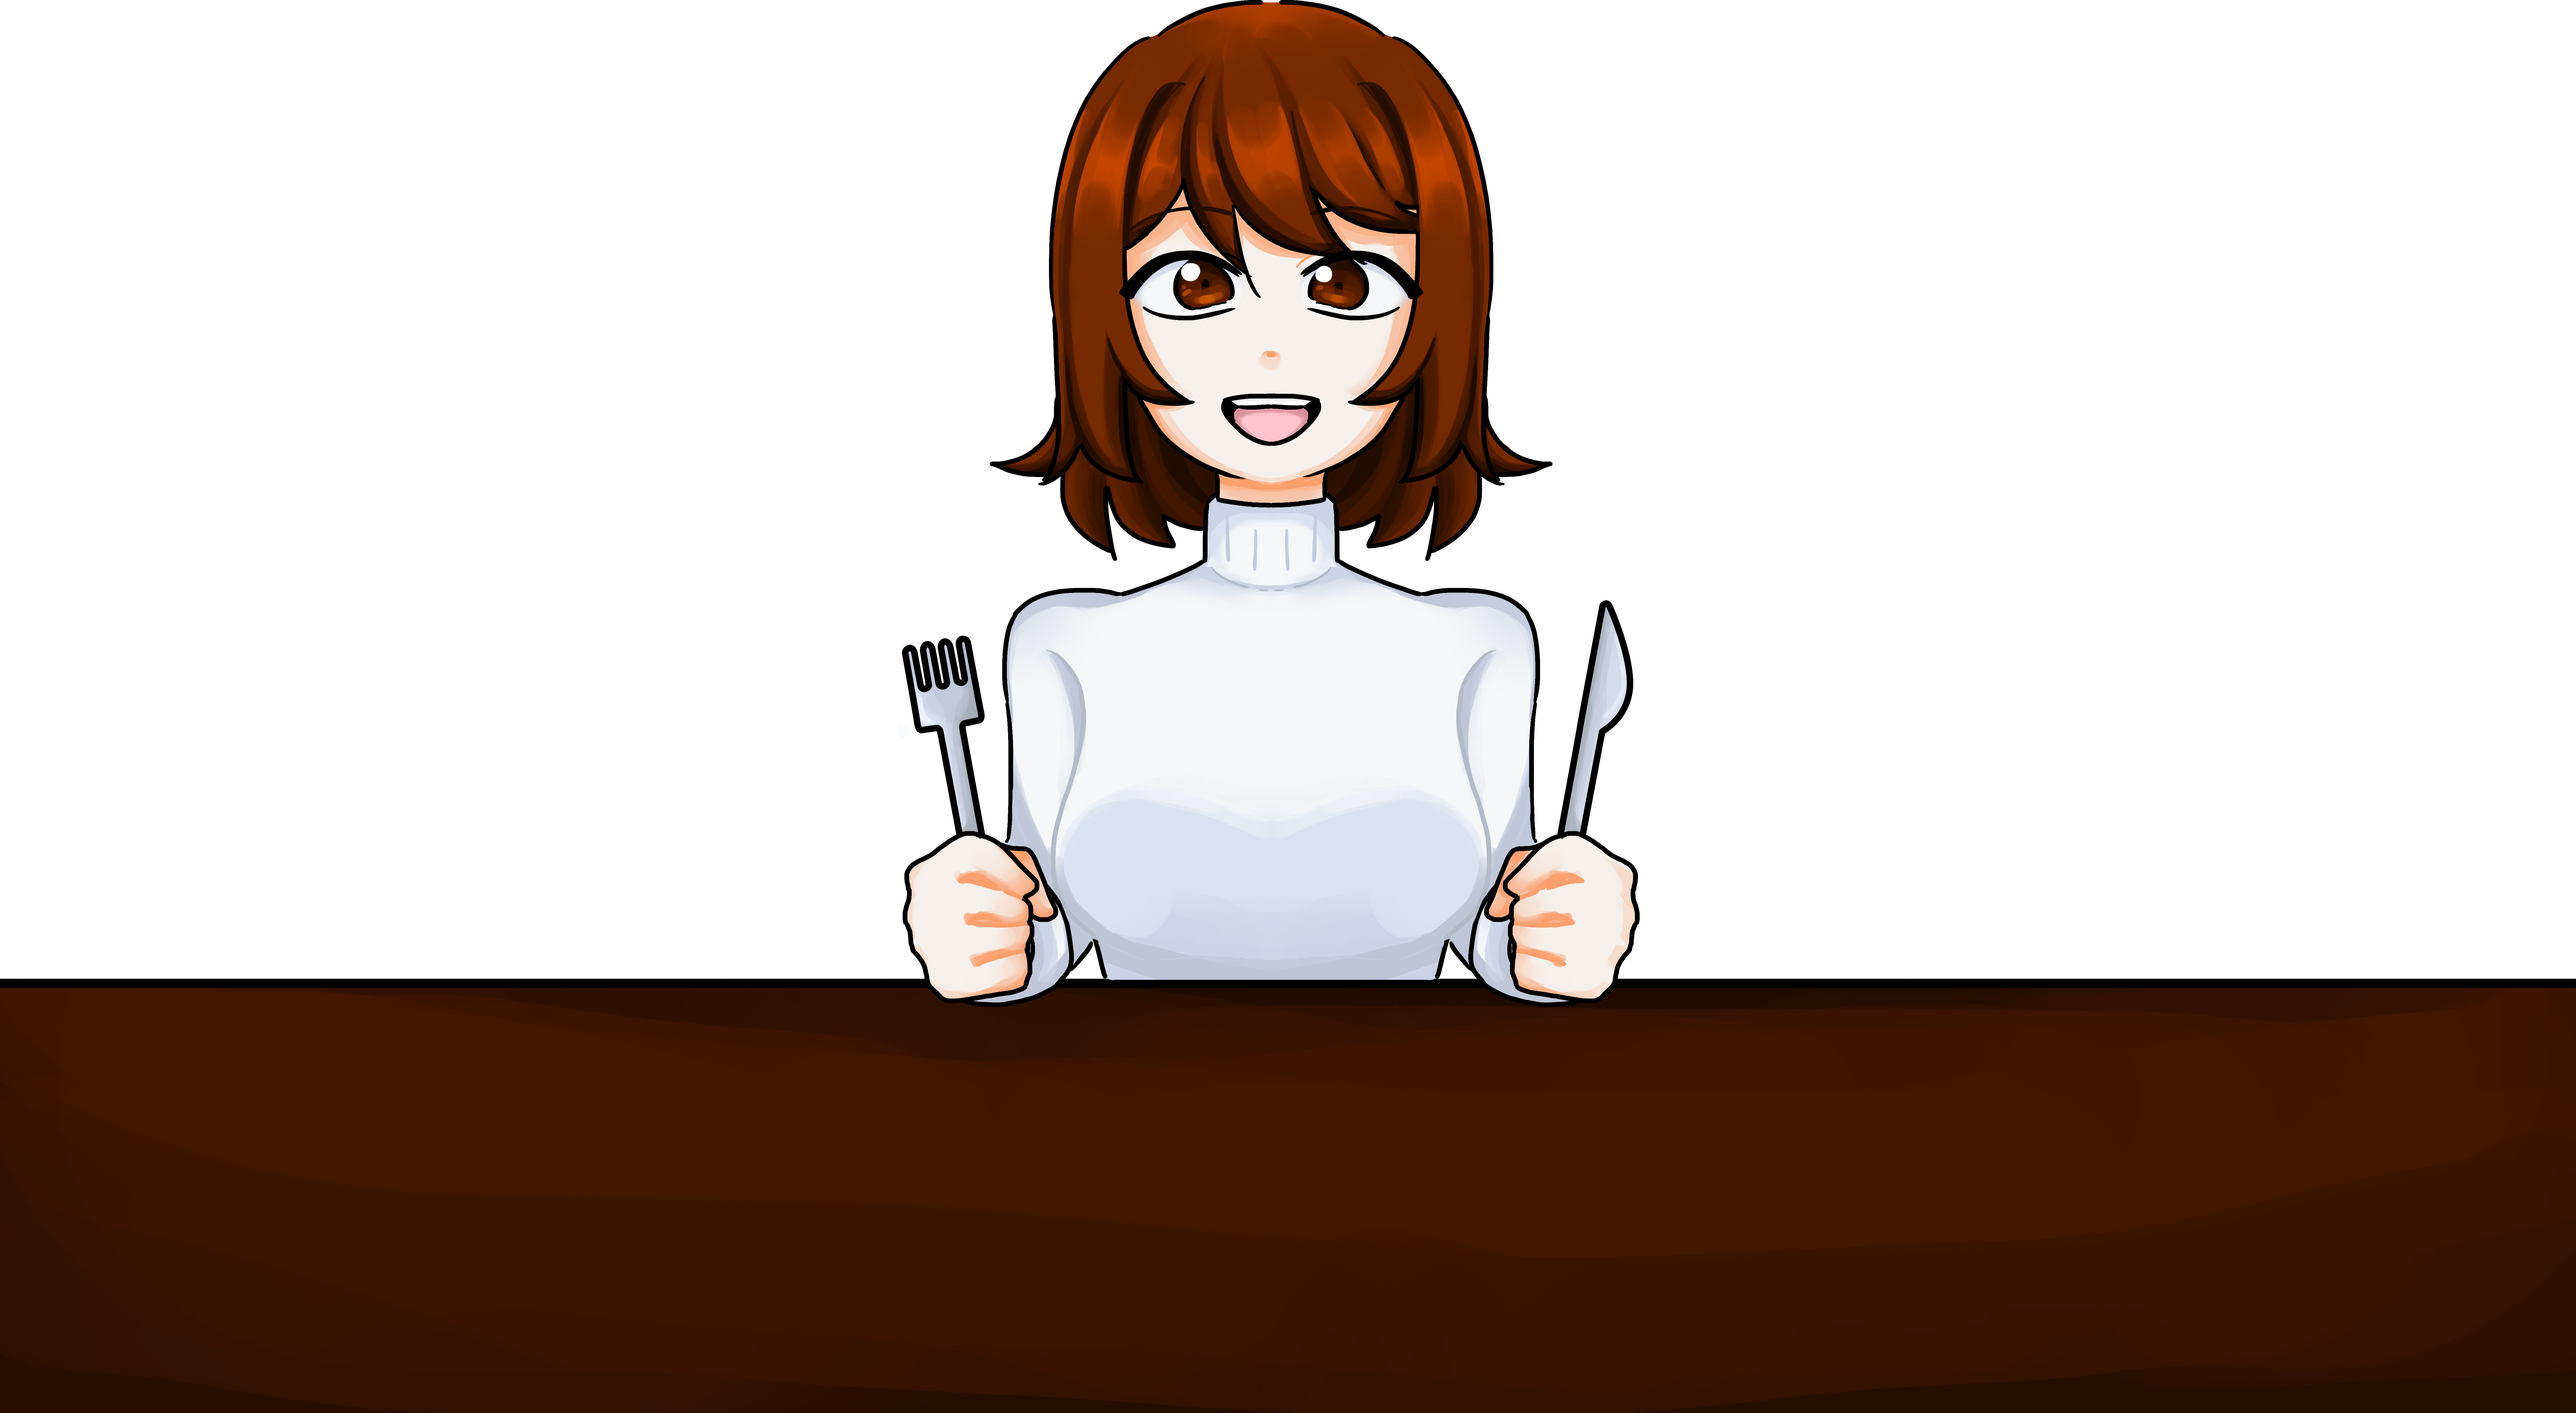
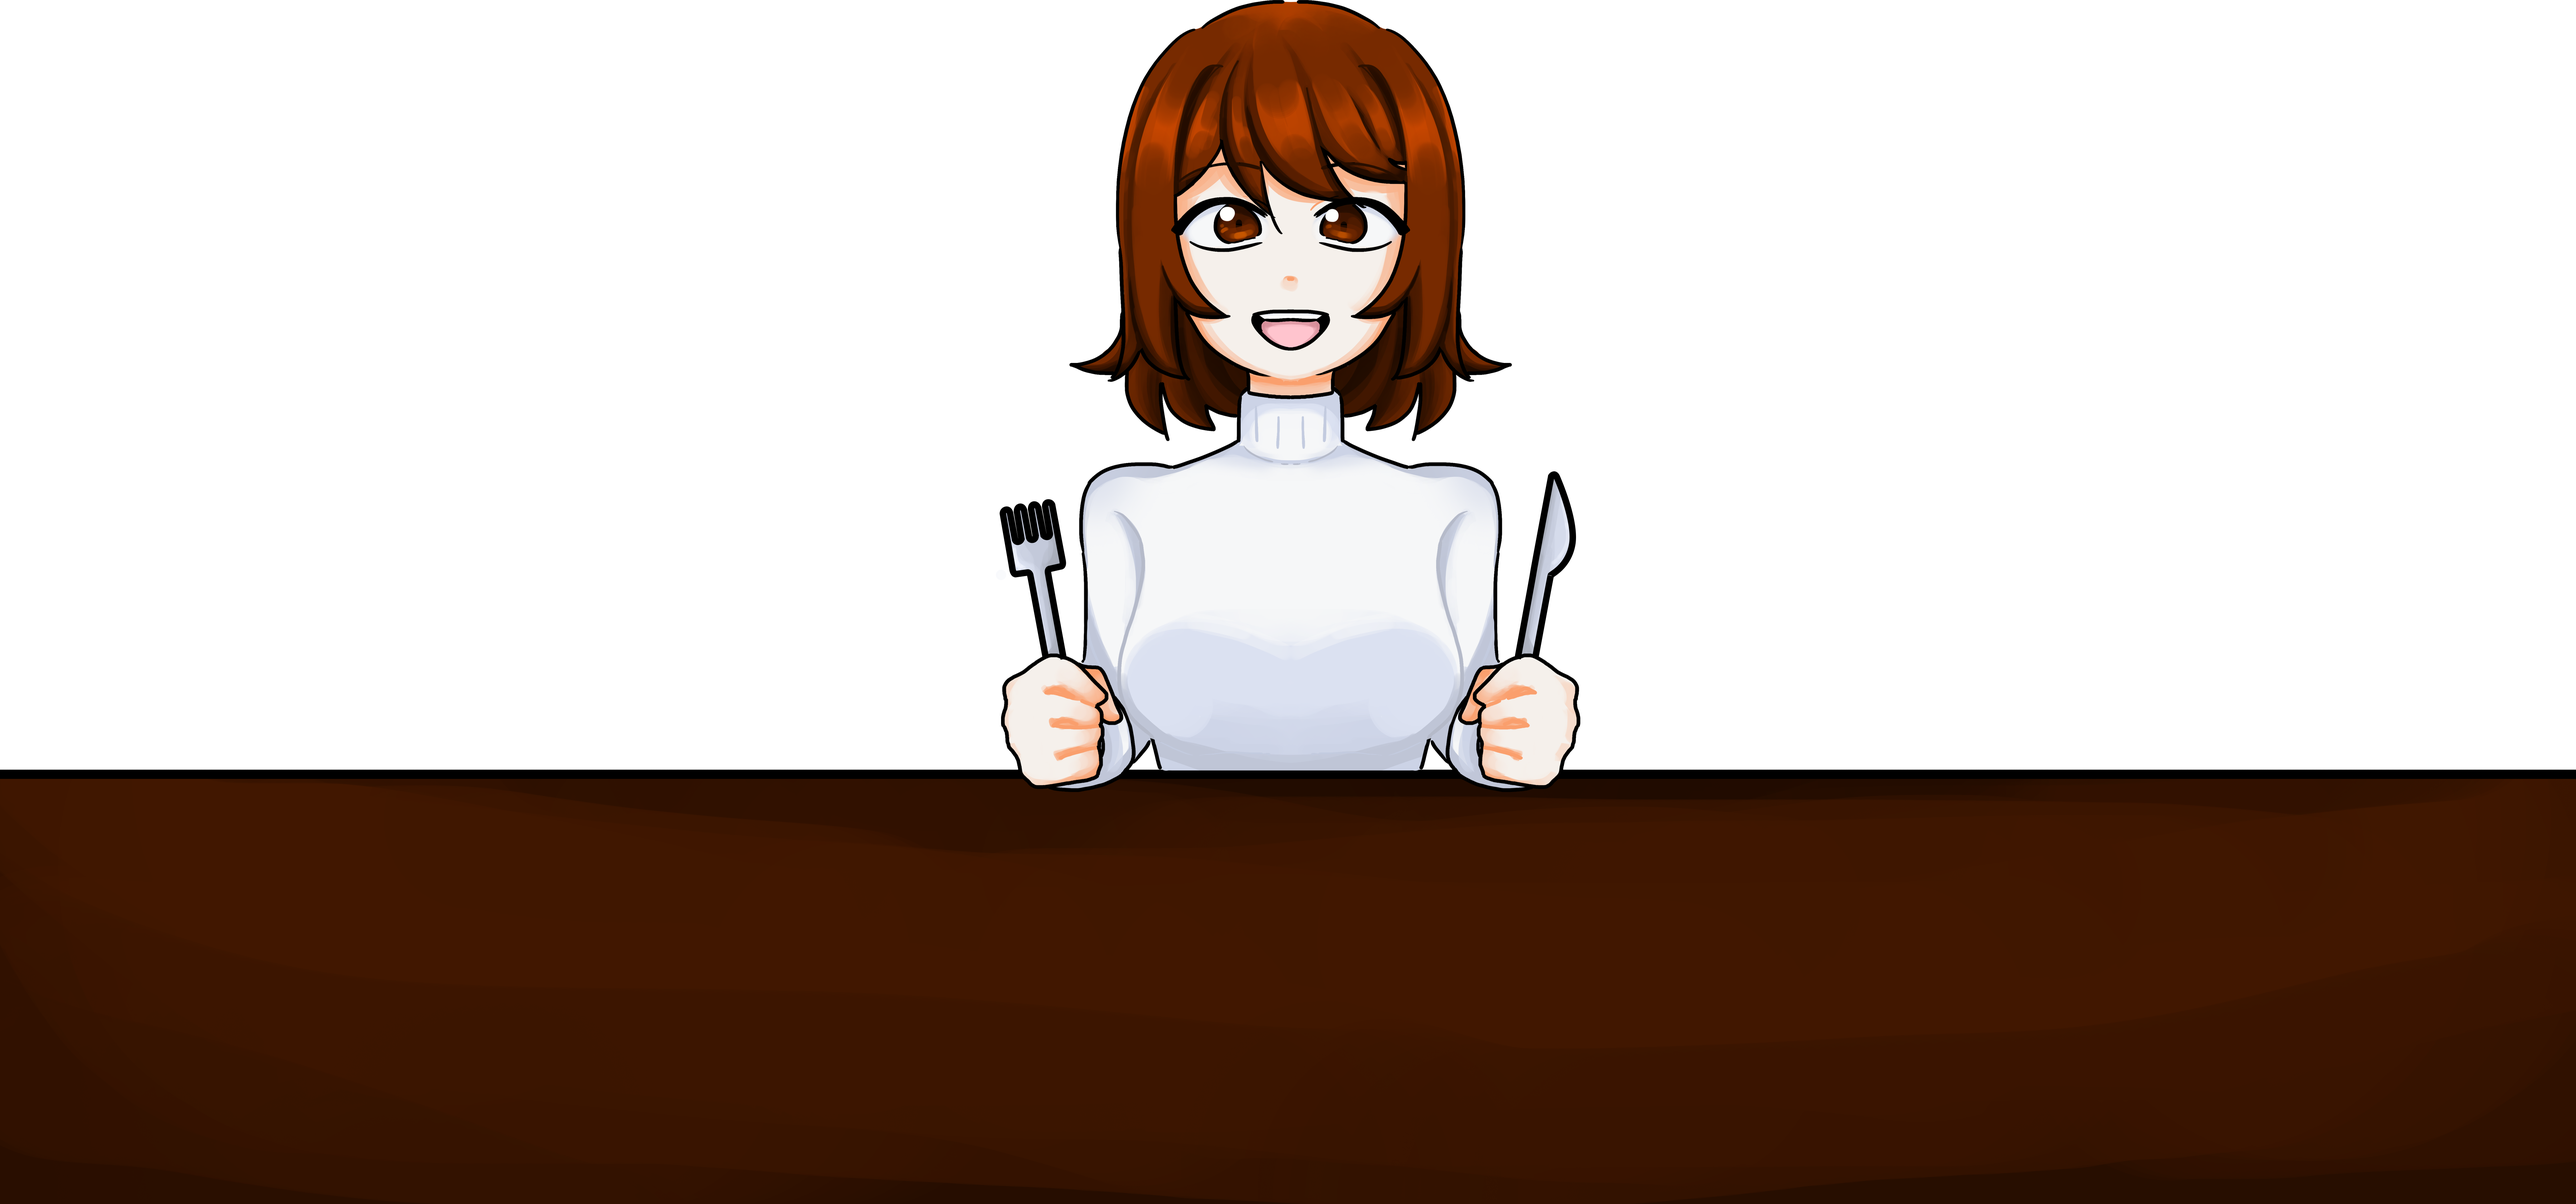
Resize my plate background image

Changed region(s): [[0.0, 0.0, 1.0, 0.7173]]

diff --git a/myplate.html b/myplate.html
@@ -43,7 +43,7 @@
         </li>
       </ul>
   </nav>
-  <div class="plate"><img src="images/myplate2.png" style="width: 100%; height: auto;"/></div>
+  <div class="plate"><img src="images/myplate2.png" style="width: 100%; height: auto;margin-top: 10px;"/></div>
   
   <footer>
       <!-- Copyright footer -->
